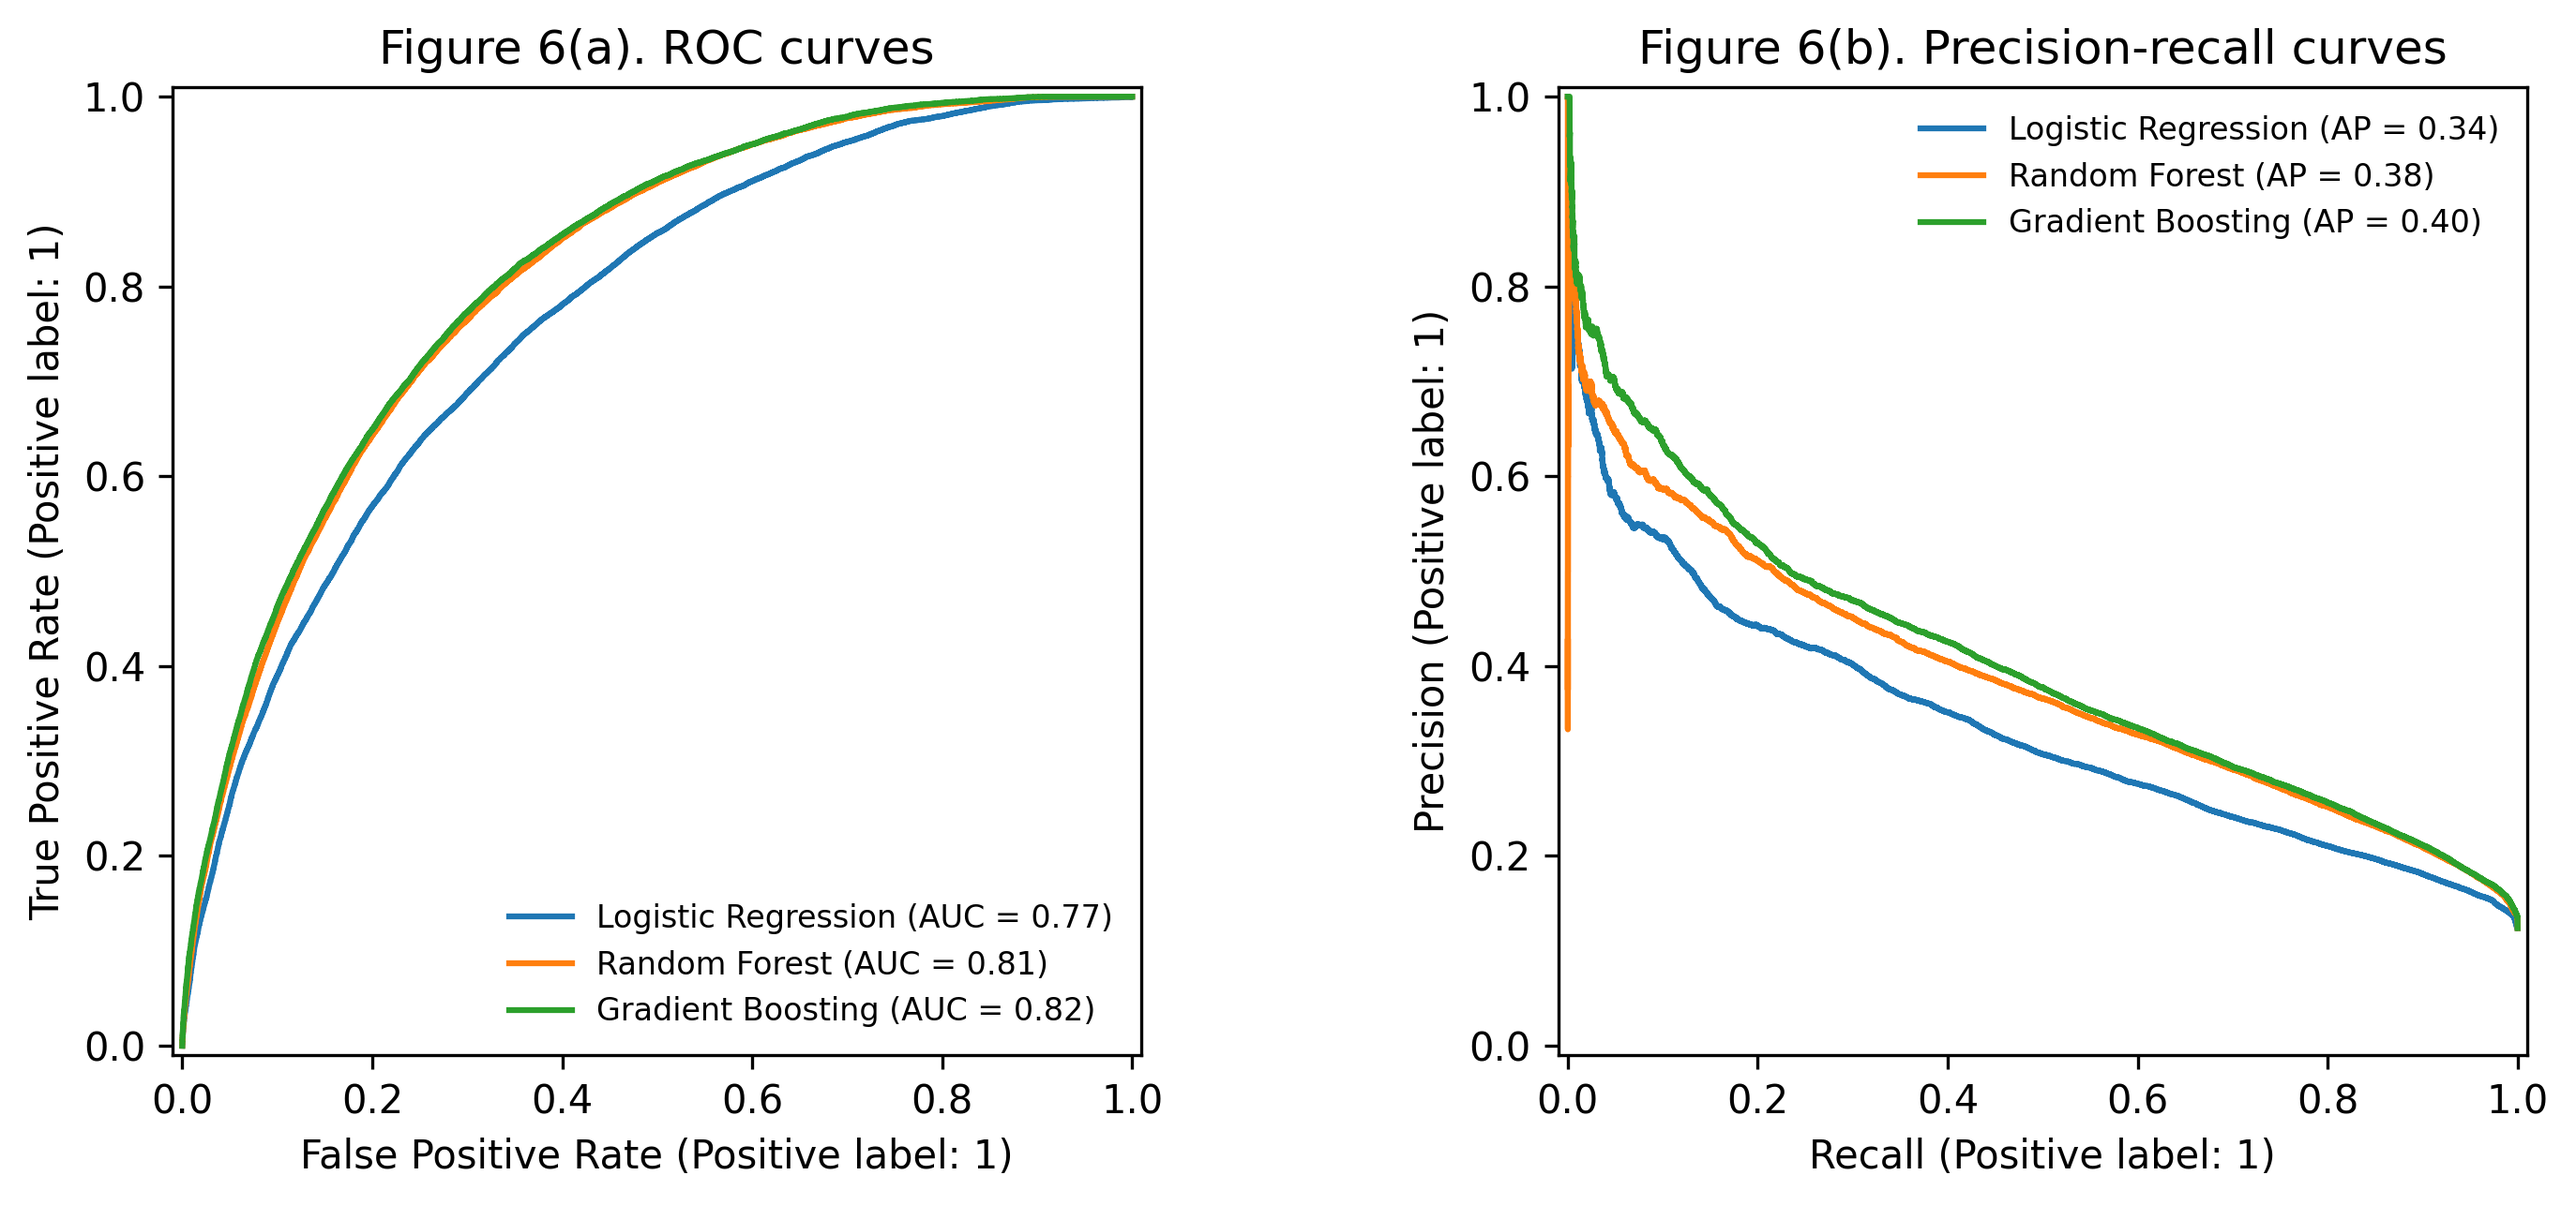
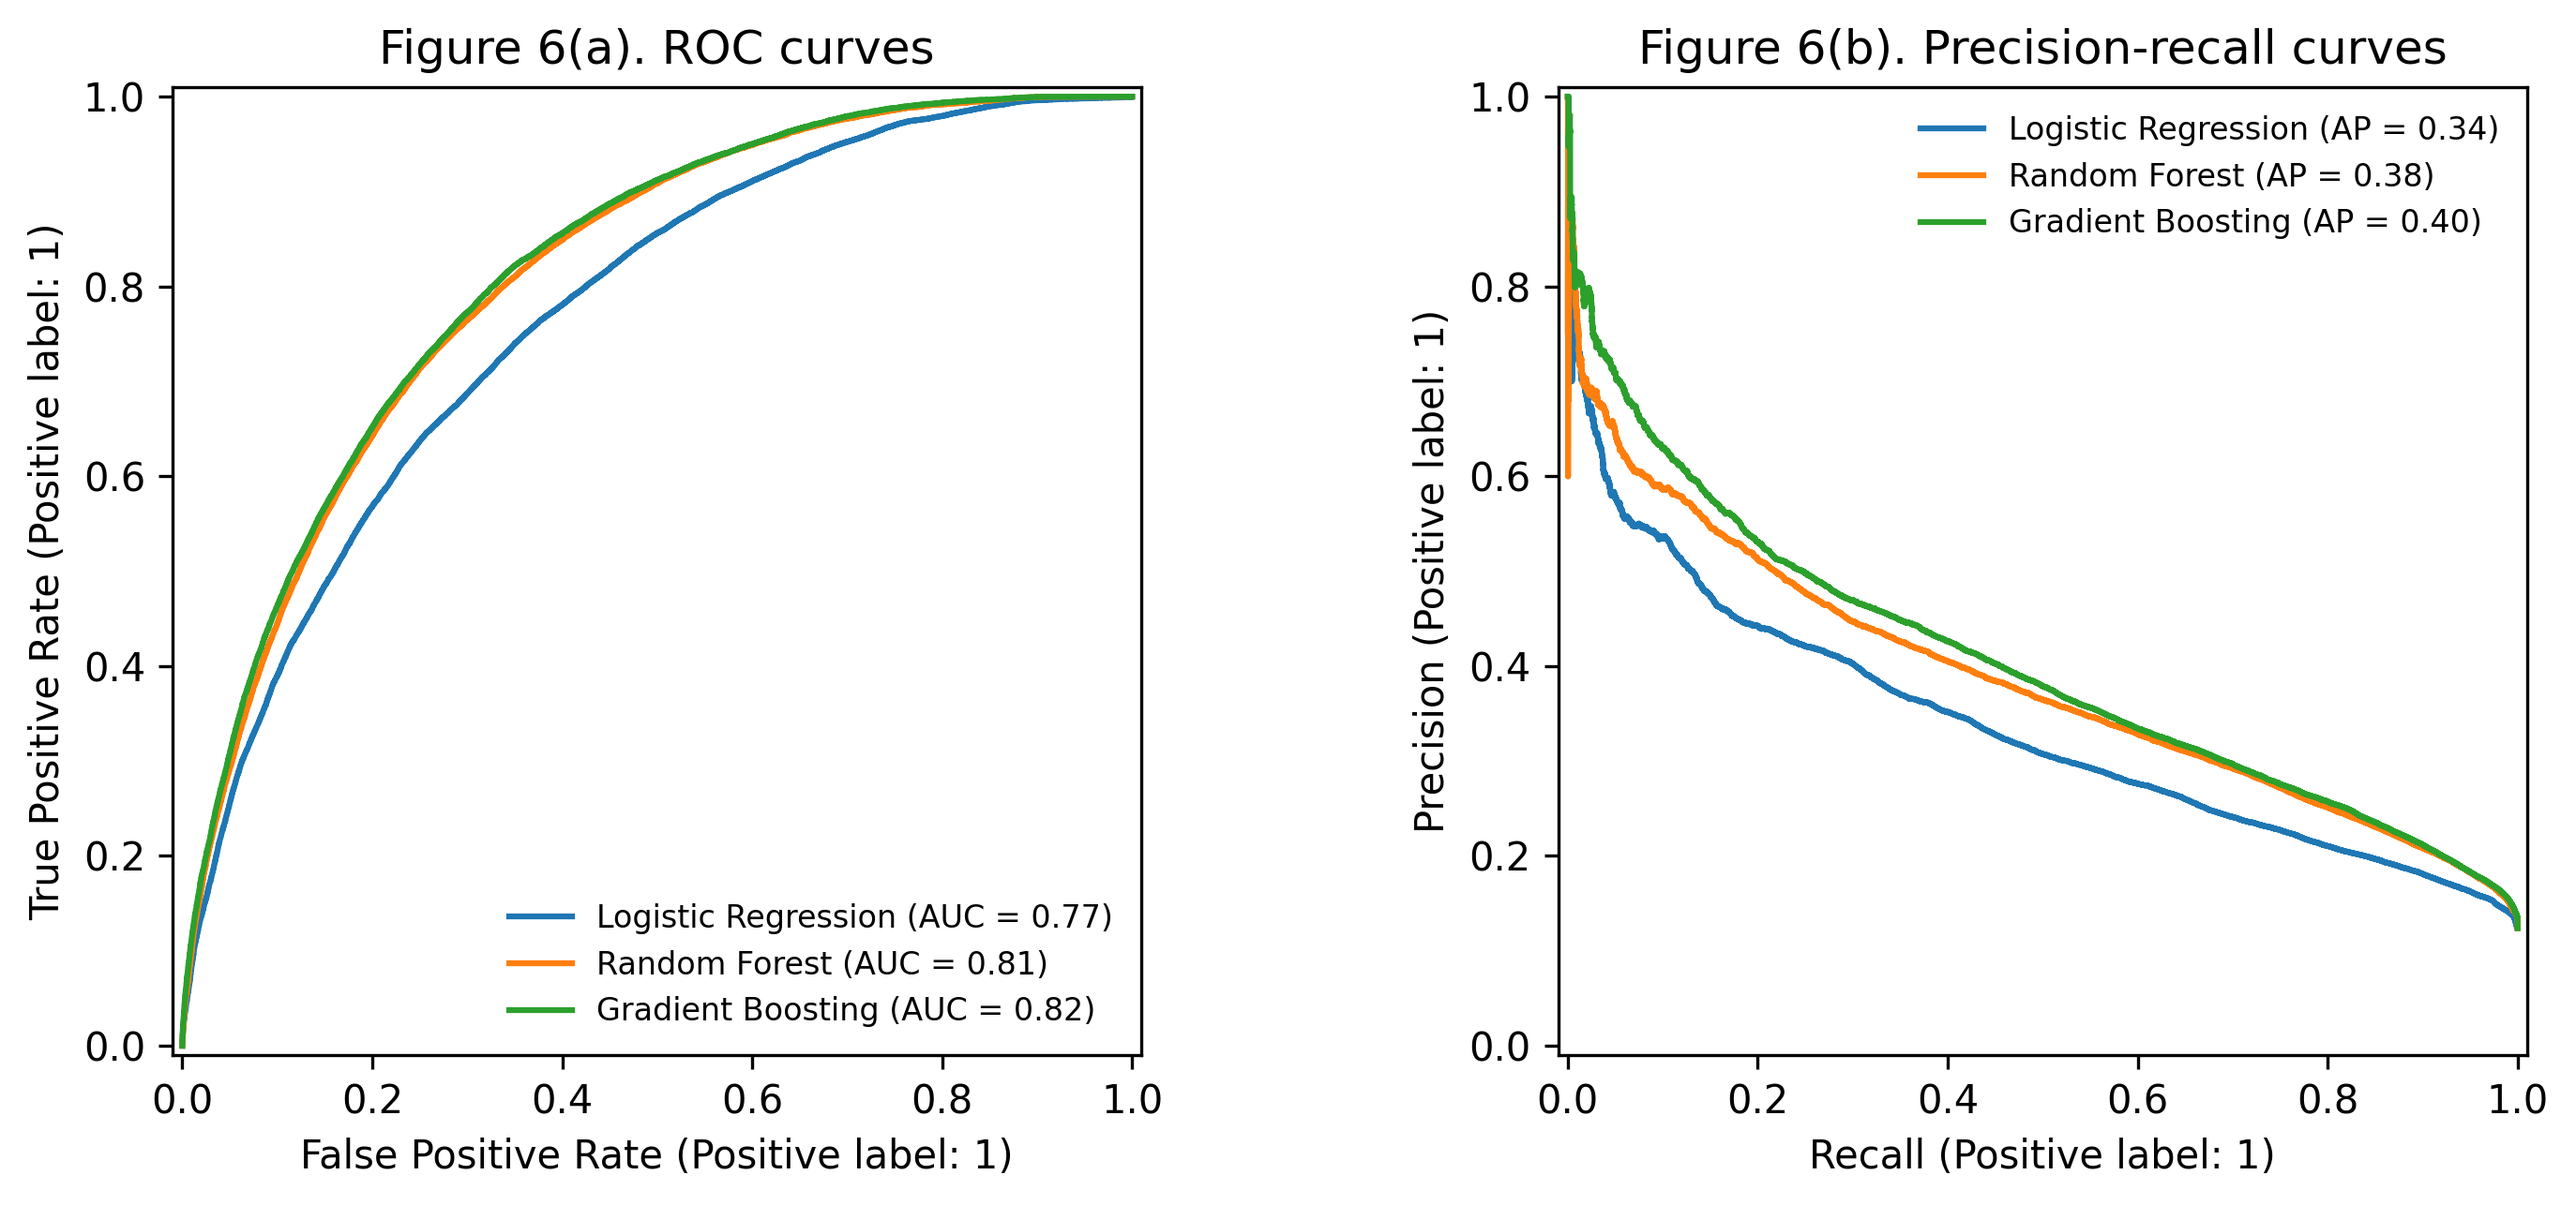
Fix: calibration's inner CV was not patient-grouped
CalibratedClassifierCV(pipeline, method="sigmoid", cv=5) used an integer
cv, which sklearn resolves to an ungrouped StratifiedKFold: a patient's
admissions could span the inner model-fitting and calibration folds
(never the outer test fold, so held-out discrimination metrics were
unaffected, but the calibration step itself did not fully extend the
patient-grouped design). Replace with a precomputed StratifiedGroupKFold
split passed as cv, in both repeated_holdout_grouped and
cross_validate_models_grouped. Re-ran the pipeline: AUROC/AUPRC/Brier/
calibration numbers shift by ~0.001-0.003 (2nd-3rd decimal); cohort size,
prevalence, split diagnostics, missingness, and feature importance are
unaffected. Found via independent review of the prior commit's manuscript.

diff --git a/scripts/train_leakfree_model.py b/scripts/train_leakfree_model.py
@@ -99,6 +99,7 @@ def repeated_holdout_grouped(
 
         X_train, X_test = X.iloc[train_idx], X.iloc[test_idx]
         y_train, y_test = y.iloc[train_idx], y.iloc[test_idx]
+        groups_train = groups.iloc[train_idx]
 
         estimators = build_estimators(seed)
         for model_name, estimator in estimators.items():
@@ -112,10 +113,14 @@ def repeated_holdout_grouped(
             )
             # class_weight="balanced" (see train_models.build_estimators) shifts predicted
             # probabilities away from the true prevalence. Recalibrate with a 5-fold
-            # (non-grouped) internal CV entirely WITHIN X_train/y_train -- X_test is never
-            # touched by this step, so the outer patient-level holdout guarantee above is
-            # unaffected.
-            calibrated = CalibratedClassifierCV(pipeline, method="sigmoid", cv=5)
+            # internal CV entirely WITHIN X_train/y_train -- X_test is never touched by
+            # this step, so the outer patient-level holdout guarantee above is unaffected.
+            # The inner split is itself grouped by subject_id (StratifiedGroupKFold) so a
+            # patient's admissions cannot span the inner model-fitting and calibration
+            # folds either.
+            inner_cv = StratifiedGroupKFold(n_splits=5, shuffle=True, random_state=seed)
+            inner_splits = list(inner_cv.split(X_train, y_train, groups=groups_train))
+            calibrated = CalibratedClassifierCV(pipeline, method="sigmoid", cv=inner_splits)
             calibrated.fit(X_train, y_train)
             y_prob = predict_positive_probability(calibrated, X_test)
             m = classification_metrics(y_test, y_prob, threshold=float(ml_cfg.get("probability_threshold", 0.5)))
@@ -172,6 +177,7 @@ def cross_validate_models_grouped(
 
         X_train, X_test = X.iloc[train_idx], X.iloc[test_idx]
         y_train, y_test = y.iloc[train_idx], y.iloc[test_idx]
+        groups_train = groups.iloc[train_idx]
         for model_name, estimator in build_estimators(seed + fold).items():
             pipeline = build_model_pipeline(
                 estimator=estimator,
@@ -181,8 +187,11 @@ def cross_validate_models_grouped(
                 use_feature_selection=bool(ml_cfg.get("use_feature_selection", False)),
                 k=ml_cfg.get("feature_selection_k", "all"),
             )
-            # Same train-only recalibration as repeated_holdout_grouped; see comment there.
-            calibrated = CalibratedClassifierCV(pipeline, method="sigmoid", cv=5)
+            # Same train-only, patient-grouped recalibration as repeated_holdout_grouped;
+            # see comment there.
+            inner_cv = StratifiedGroupKFold(n_splits=5, shuffle=True, random_state=seed + fold)
+            inner_splits = list(inner_cv.split(X_train, y_train, groups=groups_train))
+            calibrated = CalibratedClassifierCV(pipeline, method="sigmoid", cv=inner_splits)
             calibrated.fit(X_train, y_train)
             y_prob = predict_positive_probability(calibrated, X_test)
             m = classification_metrics(y_test, y_prob, threshold=float(ml_cfg.get("probability_threshold", 0.5)))
